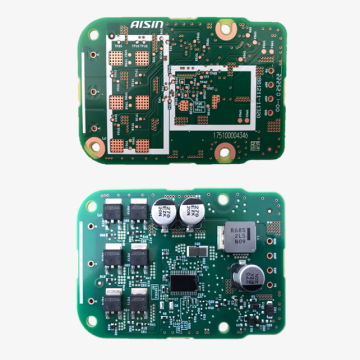
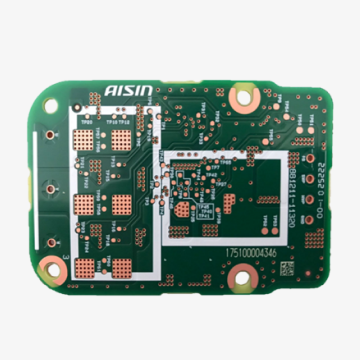
change photo

diff --git a/resources/views/website/pages/product/index.blade.php b/resources/views/website/pages/product/index.blade.php
@@ -11,7 +11,7 @@
           link="{{ route('product-list', ['product' => 'engine-part']) }}" column="col-lg-6" />
         <x-menu-banner image="{{ asset('website/img/home/products/drivetrain-clutchcover.jpg') }}" title="Drive Train"
           link="{{ route('product-list', ['product' => 'drive-train']) }}" column="col-lg-6" />
-        <x-menu-banner image="{{ asset('website/img/home/products/electricalpart-ecu.jpg') }}" title="Electronic Part"
+        <x-menu-banner image="{{ asset('website/img/home/products/electricalpart-ecu.png') }}" title="Electronic Part"
           link="{{ route('product-list', ['product' => 'electrical-part']) }}" column="col-lg-6" />
       </div>
     </div>

diff --git a/app/Http/Controllers/HomeController.php b/app/Http/Controllers/HomeController.php
@@ -850,7 +850,7 @@ class HomeController extends Controller
                 break;
             case 'electrical-part':
                 $subtitle = 'Electronic Part';
-                $banner = asset('website/img/home/products/electricalpart-ecu.jpg');
+                $banner = asset('website/img/home/products/electricalpart-ecu.png');
                 $products = [
                     (object) [
                         'name' => 'Keyless Antenna',
